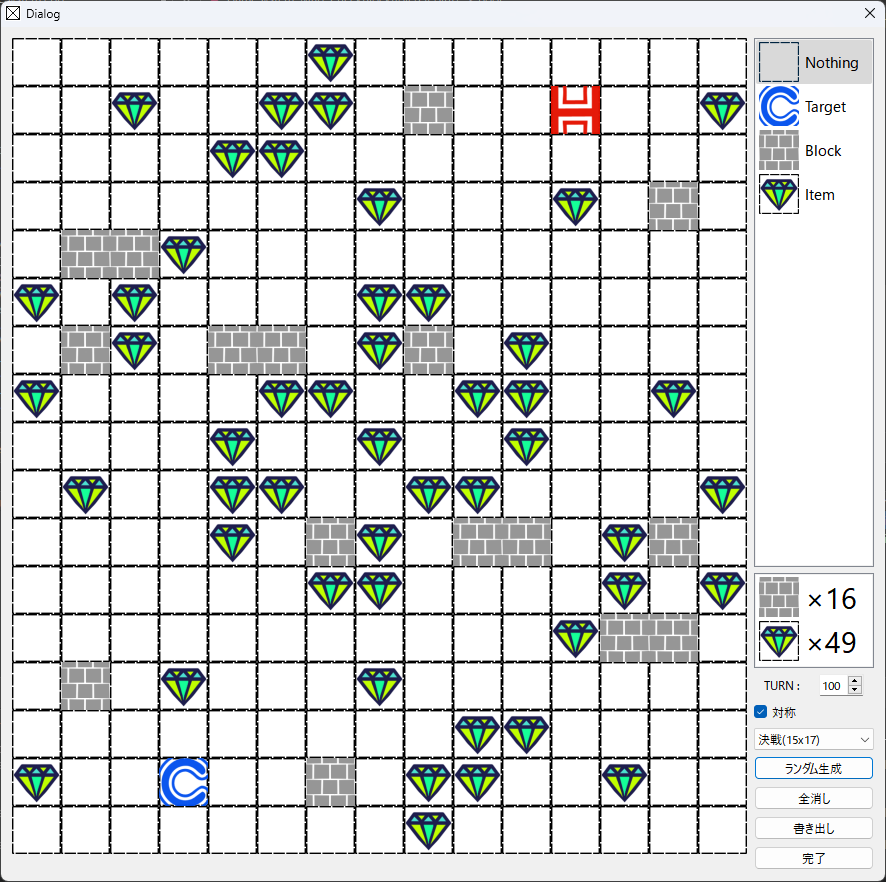
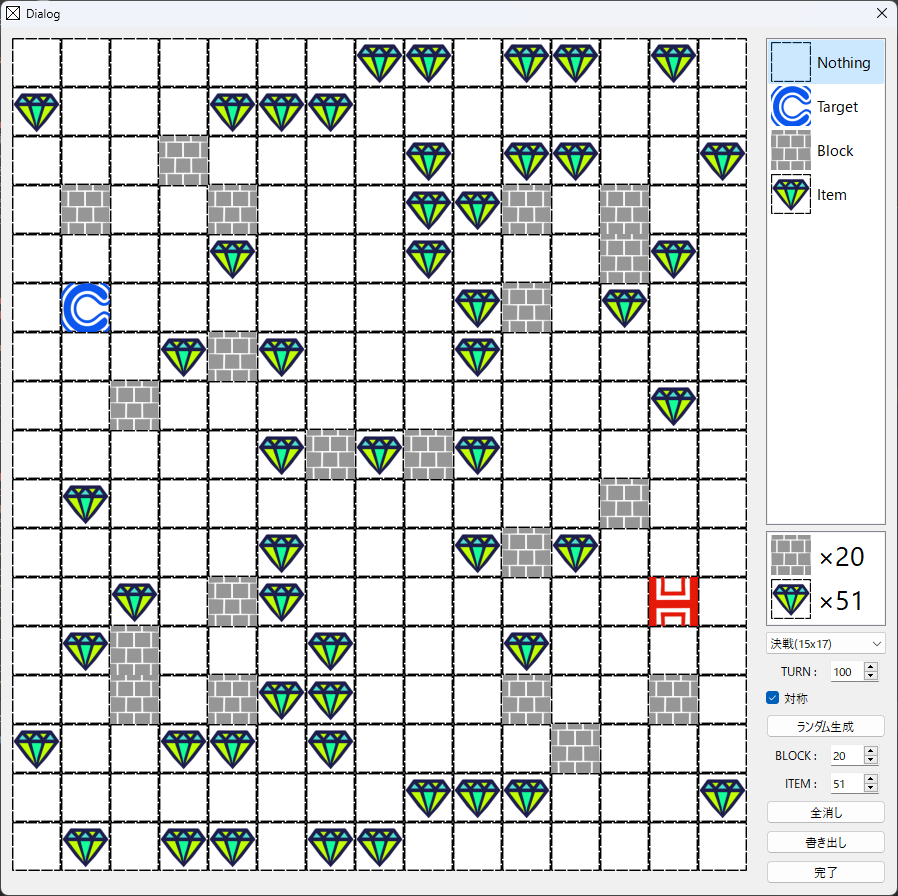
[変更] マップ編集画面でブロック、アイテム数を指定してランダムマップを生成する機能を追加 ・指定されたブロック、アイテム数は必ず満たすように生成されるように変更 ・ブロックは偶数個、アイテムは奇数個でない場合の警告を追加

diff --git a/src/GameSystem.cpp b/src/GameSystem.cpp
@@ -48,9 +48,9 @@ GameSystem::Map::Map():
     size(DEFAULT_MAP_WIDTH,DEFAULT_MAP_HEIGHT),
     texture_dir_path(":/Image/Jewel"){
 }
-void GameSystem::Map::SetSize(QPoint size){
+void GameSystem::Map::SetSize(QPoint size, int block_num, int item_num){
     this->size = size;
-    this->CreateRandomMap();
+    this->CreateRandomMap(block_num, item_num);
 }
 
 QPoint GameSystem::Map::MirrorPoint(const QPoint& pos){
@@ -139,7 +139,7 @@ bool GameSystem::Map::Export(QString Filename){
 }
 
 //大会ルール(https://www.procon-asahikawa.org/files/U16Procon-RuleBookV231.pdf)
-//に則り、ブロックを置いては行けない場所の場合はfalseを返す
+//に則り、ブロックを置いてはいけない場所の場合はfalseを返す
 bool GameSystem::Map::CheckBlockRole(QPoint pos){
     //外周にブロックがあってはいけない
     if(pos.x() == 0 || pos.x() == size.x()-1 || pos.y() == 0|| pos.y() == size.y()-1)
@@ -155,10 +155,8 @@ bool GameSystem::Map::CheckBlockRole(QPoint pos){
 
 //大会ルールの「A 基本タイプ」に準拠してブロック、アイテム、COOLとHOTをランダムに配置
 //*A 基本タイプ: COOLとHOTの周囲8マスにアイテムがない
-void GameSystem::Map::CreateRandomMap(){
-    const int BLOCK_NUM = 20;
-    const int ITEM_NUM = 50;
-
+//デフォルトではブロック20個、アイテム50個を配置
+void GameSystem::Map::CreateRandomMap(int block_num, int item_num){
     turn = 100;
     name = "[RANDOM MAP]";
 
@@ -191,19 +189,19 @@ void GameSystem::Map::CreateRandomMap(){
     }
 
     //ブロック配置
-    for(int i=0;i<BLOCK_NUM/2;i++){
+    for(int i=0;i<block_num/2;i++){
         QPoint pos(QRandomGenerator::global()->generate() % size.x(),QRandomGenerator::global()->generate() % size.y());
 
         auto mirrorPos = MirrorPoint(pos);
-        bool all_of = true;
 
-        //プレイヤーとブロックを置こうとしている位置が同じであればブロックを置かない
-        //(プレイヤーが初期位置でブロックにめり込まないようにする)
-        if(team_first_point[0] == pos || team_first_point[1] == pos)
-            all_of=false;
+        if(CheckBlockRole(pos) &&
+            pos != team_first_point[0] && //プレイヤーとブロックを置こうとしている位置が同じであればブロックを置かない
+            pos != team_first_point[1] && //(プレイヤーが初期位置でブロックにめり込まないようにする)
+            field[pos.y()][pos.x()] != GameSystem::MAP_OBJECT::BLOCK &&
+            pos != QPoint(size.x()/2, size.y()/2 )){ //真ん中は必ずアイテム(ブロックは置けない)
 
-        if(CheckBlockRole(pos) && all_of && field[pos.y()][pos.x()] != GameSystem::MAP_OBJECT::BLOCK){
             field[pos.y()][pos.x()] = GameSystem::MAP_OBJECT::BLOCK;
+
             //点対称に配置
             field[mirrorPos.y()][mirrorPos.x()] = GameSystem::MAP_OBJECT::BLOCK;
         }else{
@@ -214,19 +212,23 @@ void GameSystem::Map::CreateRandomMap(){
     }
 
     //アイテム配置
-    for(int i=0;i<ITEM_NUM/2;i++){
+    for(int i=0;i<item_num/2;i++){
         QPoint pos(QRandomGenerator::global()->generate() % size.x(),QRandomGenerator::global()->generate() % size.y());
         auto mirrorPos = MirrorPoint(pos);
 
-        bool all_of = true;
+        bool around_item_flag = true;
 
         //プレイヤーとアイテムを置こうとしている位置の一様ノルムが1以下なら、アイテムを置かない
         //(プレイヤーが初期位置でGetReadyしたときに、アイテムがない状態にする)
         //これは「A 基本タイプ」の要件
         if(UniformNorm(team_first_point[0]  - pos) <= 1 || UniformNorm(team_first_point[1] - pos) <= 1)
-            all_of=false;
+            around_item_flag=false;
 
-        if(all_of && field[pos.y()][pos.x()] != GameSystem::MAP_OBJECT::ITEM){
+        if(around_item_flag &&
+            field[pos.y()][pos.x()] != GameSystem::MAP_OBJECT::ITEM &&
+            field[pos.y()][pos.x()] != GameSystem::MAP_OBJECT::BLOCK &&
+            pos != QPoint(size.x()/2, size.y()/2) ){ //真ん中は後の処理で必ずアイテムにするので、ここでは置かない
+
             field[pos.y()][pos.x()] = GameSystem::MAP_OBJECT::ITEM;
             //点対称に配置
             field[mirrorPos.y()][mirrorPos.x()] = GameSystem::MAP_OBJECT::ITEM;

diff --git a/src/MapEditerDialog.cpp b/src/MapEditerDialog.cpp
@@ -137,16 +137,8 @@ void MapEditerDialog::SelectItem(QListWidgetItem *next, [[maybe_unused]] QListWi
     }
 }
 
-void MapEditerDialog::ComboChanged(QString value){
-    if(value=="広域(21x17)"){
-        this->ui->widget->field.SetSize(QPoint(21,17));
-    }
-    else if(value=="決戦(15x17)"){
-        this->ui->widget->field.SetSize(QPoint(15,17));
-    }
-
-    this->ui->widget->team_pos[static_cast<int>(GameSystem::TEAM::COOL)] = this->ui->widget->field.team_first_point[static_cast<int>(GameSystem::TEAM::COOL)];
-    this->ui->widget->team_pos[static_cast<int>(GameSystem::TEAM::HOT )] = this->ui->widget->field.team_first_point[static_cast<int>(GameSystem::TEAM::HOT )];
+void MapEditerDialog::ComboChanged([[maybe_unused]] QString value){
+    randomGenerateButtonPressed();
 
     //ウインドウの縦横のマス目の比を取る
     double window_width_per_height = static_cast<double>(ui->widget->field.size.x())/ui->widget->field.size.y();
@@ -154,9 +146,8 @@ void MapEditerDialog::ComboChanged(QString value){
     int window_height = static_cast<int>(QGuiApplication::primaryScreen()->size().height()*0.8);
 
     resize(QSize(window_height*window_width_per_height+134, window_height+4));
-    ui->widget->setMap(ui->widget->field);
+
     paintEvent(nullptr);
-    ReCount();
     update();
 }
 
@@ -176,10 +167,10 @@ void MapEditerDialog::randomGenerateButtonPressed(){
     auto fieldSizeText = ui->comboBox->currentText();
 
     if(fieldSizeText=="広域(21x17)"){
-        this->ui->widget->field.SetSize(QPoint(21,17));
+        this->ui->widget->field.SetSize(QPoint(21,17), ui->BlockSpin->value(), ui->ItemSpin->value());
     }
     else if(fieldSizeText=="決戦(15x17)"){
-        this->ui->widget->field.SetSize(QPoint(15,17));
+        this->ui->widget->field.SetSize(QPoint(15,17), ui->BlockSpin->value(), ui->ItemSpin->value());
     }
 
     this->ui->widget->team_pos[static_cast<int>(GameSystem::TEAM::COOL)] = this->ui->widget->field.team_first_point[static_cast<int>(GameSystem::TEAM::COOL)];
@@ -189,4 +180,11 @@ void MapEditerDialog::randomGenerateButtonPressed(){
     paintEvent(nullptr);
     ReCount();
     update();
+
+    if(this->ui->BlockSpin->value() % 2 != 0) // ブロック数が奇数なら警告
+        QMessageBox::information(this, tr("警告"), tr("ブロックは必ず偶数個で生成されます"));
+
+    if(this->ui->ItemSpin->value() % 2 == 0) // アイテム数が偶数なら警告
+        QMessageBox::information(this, tr("警告"), tr("アイテムは必ず奇数個で生成されます"));
+
 }

diff --git a/src/GameSystem.h b/src/GameSystem.h
@@ -101,10 +101,10 @@ public:
 
         Map();
 
-        void SetSize(QPoint size);
+        void SetSize(QPoint size, int block_num = 20, int item_num = 51);
         QPoint MirrorPoint(const QPoint& pos);
 
-        void CreateRandomMap();
+        void CreateRandomMap(int block_num = 20, int item_num = 51);
         bool Import(QString Filename);
         bool Export(QString Filename);
         bool CheckBlockRole(QPoint pos);

diff --git a/src/MapEditerDialog.h b/src/MapEditerDialog.h
@@ -4,6 +4,7 @@
 #include <QDialog>
 #include <QMouseEvent>
 #include <QListWidgetItem>
+#include <QMessageBox>
 #include "GameSystem.h"
 
 namespace Ui {
